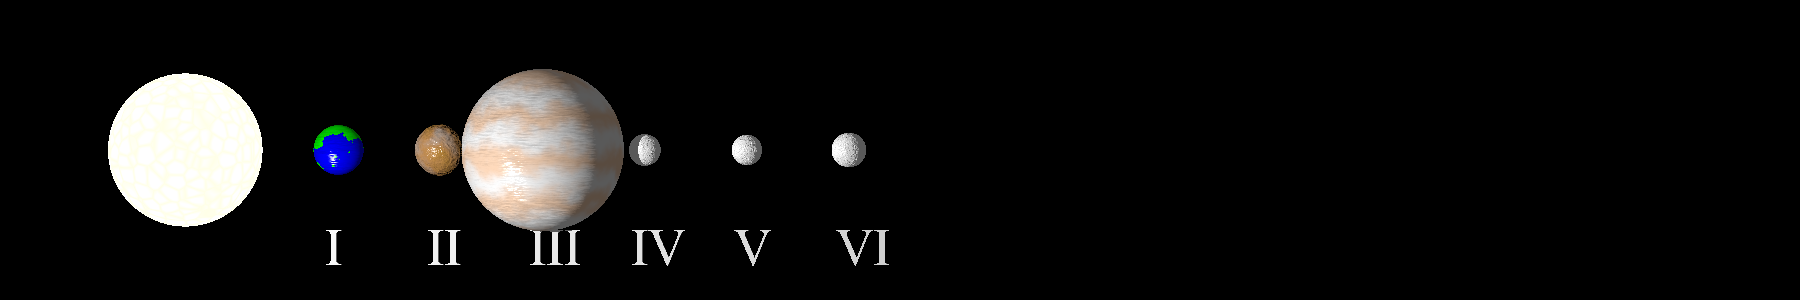
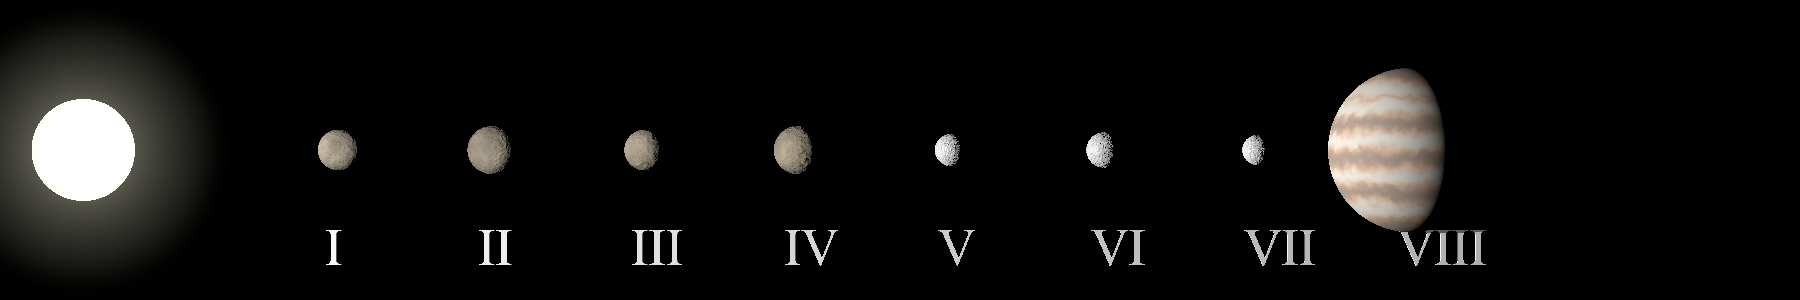
Add files via upload

diff --git a/acretee.cc b/acretee.cc
@@ -1,7 +1,7 @@
 
 
 //
-// acretee  v 0000.0000.0007
+// acretee  v 0000.0000.0007b
 // based on acrete
 //
 // use own surface density profile, pov ray output
@@ -1057,7 +1057,7 @@ int generate_and_render_povray(std::vector<Nucleus> planets, int planetnum) {
 	double massaa=0.0;
     double star_radius_pov = 1.5; // POV-Ray units
     double planet_radius_scale =0.5; // 1 Km in simulation = 0.0005 POV-Ray units
-    double distance_scale = 2.0;        // 1 AU in simulation = 5.0 POV-Ray units
+    double distance_scale = 3.0;        // 1 AU in simulation = 5.0 POV-Ray units
 
     double planet_x =0;  
 	double planet_y = 0.0; // Assume they are on the x-z plane (y=0)
@@ -1069,14 +1069,58 @@ int generate_and_render_povray(std::vector<Nucleus> planets, int planetnum) {
     char output_image_filename[] = "system_render.png";
 	char buffu [256]="";
     char command[512]="";
-
+     char charnames[256]="";
 	char romans1[50][128]={"I", "II", "III", "IV", "V", "VI", "VII", "VIII", "IX", "X", "XI", "XI", "XII", "XIII", "XIV", "XV", "XVI"};
 
     
     
     memset(buffu,0,256);
     memset(command,0,256);
+ 
+
+    memset(charnames, 0, 256);
+ 
+
+    // Luodaan char-taulukko löytöjärjestyksessä oleville nimille
+    // Oletetaan, että charnames on riittävän suuri (esim. 256)
+    // --- Ensimmäinen lajittelu: Massan mukaan laskevasti (massiivisin ensin) ---
+    // Tämä järjestää planets-vektorin niin, että massiivisin planeetta on ensimmäisenä.
+  //  std::sort(planets.begin(), planets.end(), [](const Nucleus& a, const Nucleus& b) {
+  //      return a.mass > b.mass; // Lajittelee massan mukaan, suurin ensin
+  //  });
+        // --- Massalajittelu ---
+   /*
+   
+    std::sort(planets.begin(), planets.end(), [](Nucleus& a, Nucleus& b) {
+        return a.mass > b.mass; // Lajittelee massan mukaan, suurin ensin
+    });
+
+    */
     
+    
+    int i = 0;
+    for (const auto& p : planets) {
+        if (i < 256) {
+            charnames[i] = static_cast<char>('a' + i);
+            std::cout << "Planeetta: " << p.axis << ", Massa: " << p.mass
+                      << ", Löytöjärjestys: " << charnames[i] << std::endl;
+            i++;
+        } else {
+            std::cerr << "Varoitus: charnames-taulukko täynnä, kaikkia planeettoja ei voitu käsitellä." << std::endl;
+            break;
+        }
+    }
+ 
+ 
+ printf("\n>%s<", charnames);
+/*
+  std::sort(planets.begin(), planets.end(), [](const Nucleus& a, const Nucleus& b) {
+        return a.axis > b.axis; // Lajittelee axis-arvon mukaan, suurin ensin
+    });
+*/
+
+// exit(-1);
+
     //planet_pointer node1;
 
 
@@ -1110,16 +1154,8 @@ int generate_and_render_povray(std::vector<Nucleus> planets, int planetnum) {
     // This could also be your central star itself
     fprintf(fp_pov, "light_source { <0, 0, -10> color White * 1.5 }\n\n");
 
-    // Ground plane (optional, but makes the scene look better)
-   // fprintf(fp_pov, "plane {\n");
-   // fprintf(fp_pov, "  y, -0.1 // Normal vector (y-axis), distance from origin\n");
-   // fprintf(fp_pov, "  pigment { checker color DarkGreen, color Green }\n");
-   // fprintf(fp_pov, "}\n\n");
 
-    // --- Central Star ---
-    // Scale its radius based on stellar_mass_ratio or stellar_luminosity_ratio
-    // For simplicity, let's use a fixed size that looks good with planets scaled below
-
+/*
     fprintf(fp_pov, "sphere {\n");
     fprintf(fp_pov, "  <0, 0, 0>, %f // Center and radius\n", star_radius_pov);
     fprintf(fp_pov, "  pigment {  ");
@@ -1136,6 +1172,67 @@ int generate_and_render_povray(std::vector<Nucleus> planets, int planetnum) {
     fprintf(fp_pov, "  // Add a halo for a more realistic star glow (requires photons in render settings)\n");
     // fprintf(fp_pov, "  photons { emission 1 }\n"); // Uncomment if you want to use photons for glow
     fprintf(fp_pov, "}\n\n");
+*/
+
+
+
+fprintf(fp_pov, "background { color rgb <0, 0, 0.0> } // Tumma avaruus \n");
+fprintf(fp_pov, "\n");
+fprintf(fp_pov, "#declare bright_star= union {\n");
+fprintf(fp_pov, "\n");
+fprintf(fp_pov, "light_source {\n");
+fprintf(fp_pov, "    <0, 0, 0>\n");
+fprintf(fp_pov, "    color rgb <1, 1, 1>\n");
+fprintf(fp_pov, "\n");
+fprintf(fp_pov, "looks_like \n");
+fprintf(fp_pov, "{\n");
+fprintf(fp_pov, "// Tähti (kirkas pallo)\n");
+fprintf(fp_pov, "sphere {\n");
+fprintf(fp_pov, "    <0, 0, 0>, 1\n ");
+fprintf(fp_pov, "    texture {\n");
+fprintf(fp_pov, "        pigment { color rgb <1, 1, 0.8> } // Keltainen/valkoinen sävy \n");
+fprintf(fp_pov, "        finish {\n");
+fprintf(fp_pov, "            emission 1\n");
+fprintf(fp_pov, "            diffuse 0.2\n");
+fprintf(fp_pov, "            specular 0.5\n");
+fprintf(fp_pov, "            roughness 0.01\n");
+fprintf(fp_pov, "        }\n");
+fprintf(fp_pov, "    }\n");
+fprintf(fp_pov, "}\n");
+fprintf(fp_pov, "}\n");
+fprintf(fp_pov, "}\n");
+fprintf(fp_pov, "\n");
+fprintf(fp_pov, "// Mediheheku (säteilevä vaikutus tähden ympärillä)\n ");
+fprintf(fp_pov, "sphere {\n");
+fprintf(fp_pov, "    <0, 0, 0>, 1 // Hieman suurempi pallo hehkua varten\n");
+fprintf(fp_pov, "    hollow\n");
+fprintf(fp_pov, "    material {\n");
+fprintf(fp_pov, "        texture {\n");
+fprintf(fp_pov, "                  pigment { color rgbt <1, 1, 1, 1> } // Lähes läpinäkyvä  \n ");
+fprintf(fp_pov, "\n");
+fprintf(fp_pov, "        }\n");
+fprintf(fp_pov, "\n");
+fprintf(fp_pov, "        interior {\n");
+fprintf(fp_pov, "            media {\n");
+fprintf(fp_pov, "                scattering { 3, rgb <1, 1, 0.8> * 1/20 }\n");
+fprintf(fp_pov, "                //emission 1/10000\n");
+fprintf(fp_pov, "                density { spherical poly_wave 2 density_map {\n");
+fprintf(fp_pov, "                    [0 color rgbt <0, 0, 0,1>]\n");
+fprintf(fp_pov, "                    [1 color rgbt <1, 1, 1,0>]\n");
+fprintf(fp_pov, "                }}\n");
+fprintf(fp_pov, "                samples 10,20\n");
+fprintf(fp_pov, "\n");
+fprintf(fp_pov, "            }\n");
+fprintf(fp_pov, "        }\n");
+fprintf(fp_pov, "    }\n");
+fprintf(fp_pov, "scale 3\n");
+fprintf(fp_pov, "}\n");
+fprintf(fp_pov, "\n");
+fprintf(fp_pov, "}\n");
+fprintf(fp_pov, "\n");
+fprintf(fp_pov, "object {bright_star translate x*-2}\n");
+fprintf(fp_pov, "\n");
+
 
 
     // --- Planets ---
@@ -1185,22 +1282,23 @@ int generate_and_render_povray(std::vector<Nucleus> planets, int planetnum) {
 		  {
 			fprintf(fp_pov, "  pigment {  \n");
 			
-					fprintf(fp_pov, " gradient y  sine_wave frequency 3 scale 5 warp {turbulence 0.5 } scale 0.5   \n");	
+					fprintf(fp_pov, " gradient y  sine_wave frequency 1.5 scale 5 warp {turbulence 0.5 } scale 1/5 turbulence 0.1   \n");	
 			fprintf(fp_pov, " color_map { \n");			
 			
-			fprintf(fp_pov, "  [0.0 rgb <1,0.7,0.5> ] \n");
-			fprintf(fp_pov, "  [1.0 rgb <1,1,1> ] \n");	
+			fprintf(fp_pov, "  [0.0 rgb <0.533333, 0.427451, 0.352941> ] \n");
+			fprintf(fp_pov, "  [0.5 rgb <0.917647, 0.631373, 0.454902> ] \n");	
+			fprintf(fp_pov, "  [1.0 rgb <0.992157, 0.952941, 0.847059> ] \n");	
 				
 			fprintf(fp_pov, "  }// ... color map \n");				
 			
 			fprintf(fp_pov, " } //...pigment \n  ");
-	        fprintf(fp_pov, "  finish { phong 0.8 } // Shiny finish\n");
-		    fprintf(fp_pov, "  normal { wrinkles scale y/10 scale 3 warp {turbulence 0.1} scale 0.1 bump_size 0.1 } // \n");
+	        fprintf(fp_pov, "  finish {  diffuse 0.65 ambient 0 } // Shiny finish\n");
+		  //  fprintf(fp_pov, "  normal { wrinkles scale y/10 scale 3 warp {turbulence 0.1} scale 0.1 bump_size 0.1 } // \n");
 		  }
       if(planets[n].type == Nucleus::PlanetType::ice_p)
 		  {
 			fprintf(fp_pov, "  pigment { color rgb <1, 1, 1> } \n");
-	        fprintf(fp_pov, "  finish { phong 0.8 } // Shiny finish\n");
+	        fprintf(fp_pov, "  finish { phong 0.8 ambient 0} // Shiny finish\n");
 		        fprintf(fp_pov, "  normal { agate scale 0.1  turbulence 0.2 bump_size -0.4  } // \n");
 		  }
            
@@ -1223,9 +1321,10 @@ int generate_and_render_povray(std::vector<Nucleus> planets, int planetnum) {
 		 
 					}
 		 
-	//	earthlike=1;
+		//earthlike=1;
 		if(earthlike==1)
 		{
+				fprintf(fp_pov, "  texture {  \n");
 				fprintf(fp_pov, "  pigment {  \n");
 			
 				fprintf(fp_pov, " wrinkles  scale 5 warp {turbulence 0.01 } scale 0.2  scale 0.5  \n");	
@@ -1234,13 +1333,32 @@ int generate_and_render_povray(std::vector<Nucleus> planets, int planetnum) {
 				fprintf(fp_pov, "  [0.0 rgb <0,0,1> ] \n");
 				fprintf(fp_pov, "  [0.5 rgb <0,0,1> ] \n");
 				fprintf(fp_pov, "  [0.5 rgb <0,1,0> ] \n");	
-			    fprintf(fp_pov, "  [1.0 rgb <0,1,0> ] \n");	
+			    fprintf(fp_pov, "  [1.0 rgb <0.796078, 0.545098, 0.345098> ] \n");	
 								
 				fprintf(fp_pov, "  }// ... color map \n");				
 			
 				fprintf(fp_pov, " } //...pigment \n  ");
 				fprintf(fp_pov, "  finish { phong 0.8 } // Shiny finish\n");
 				fprintf(fp_pov, "  normal { wrinkles scale y/10 scale 3 warp {turbulence 0.1} scale 0.1 bump_size 0.1 } // \n");
+					fprintf(fp_pov, " } \n");
+		
+					fprintf(fp_pov, "  texture { // clouds  \n");
+				fprintf(fp_pov, "  pigment {  \n");
+			
+				fprintf(fp_pov, " granite  turbulence 1 \n");	
+				fprintf(fp_pov, " color_map { \n");			
+			
+				fprintf(fp_pov, "  [0.0 rgbt <0,0,0,1> ] \n");
+				fprintf(fp_pov, "  [0.3 rgbt <0,0,1,1> ] \n");
+				fprintf(fp_pov, "  [0.5 rgbt <1,1,10> ] \n");	
+			    fprintf(fp_pov, "  [1.0 rgbt <1,1,1,0> ] \n");	
+								
+				fprintf(fp_pov, "  }// ... color map \n");				
+			
+				fprintf(fp_pov, " } //...pigment \n  ");
+				fprintf(fp_pov, "  finish { phong 0.8 ambient 0} // Shiny finish\n");
+			//	fprintf(fp_pov, "  normal { wrinkles scale y/10 scale 3 warp {turbulence 0.1} scale 0.1 bump_size 0.1 } // \n");
+					fprintf(fp_pov, " } \n");	
 			}
 			else
 				{
@@ -1249,16 +1367,14 @@ int generate_and_render_povray(std::vector<Nucleus> planets, int planetnum) {
 				fprintf(fp_pov, " wrinkles  scale 5 warp {turbulence 0.01 } scale 0.2  scale 0.5  \n");	
 				fprintf(fp_pov, " color_map { \n");			
 			
-				fprintf(fp_pov, "  [0.0 rgb <0.6, 0.3,0> ] \n");
-				fprintf(fp_pov, "  [0.5 rgb <0.6, 0.3, 0.1> ] \n");
-			//	fprintf(fp_pov, "  [0.5 rgb <0.8,0.5,0.5> ] \n");	
-			    fprintf(fp_pov, "  [1.0 rgb <1,1,1>*0.5 ] \n");	
+				fprintf(fp_pov, "  [0.0 rgb <0.266667, 0.25098, 0.203922> ] \n");	
+			    fprintf(fp_pov, "  [1.0 rgb <0.87451, 0.729412, 0.541176> ] \n");	
 								
 				fprintf(fp_pov, "  }// ... color map \n");				
 			
 				fprintf(fp_pov, " } //...pigment \n  ");				
 				
-					fprintf(fp_pov, "  finish { phong 0.6 roughness 0.05 ambient 0}\n"); // Less shiny, more diffuse
+					fprintf(fp_pov, "  finish { diffuse 0.5 roughness 0.05 ambient 0}\n"); // Less shiny, more diffuse
 					fprintf(fp_pov, "  normal { granite scale 0.5 turbulence 0.2 bump_size -0.3 } // \n");	
 				}
 		
